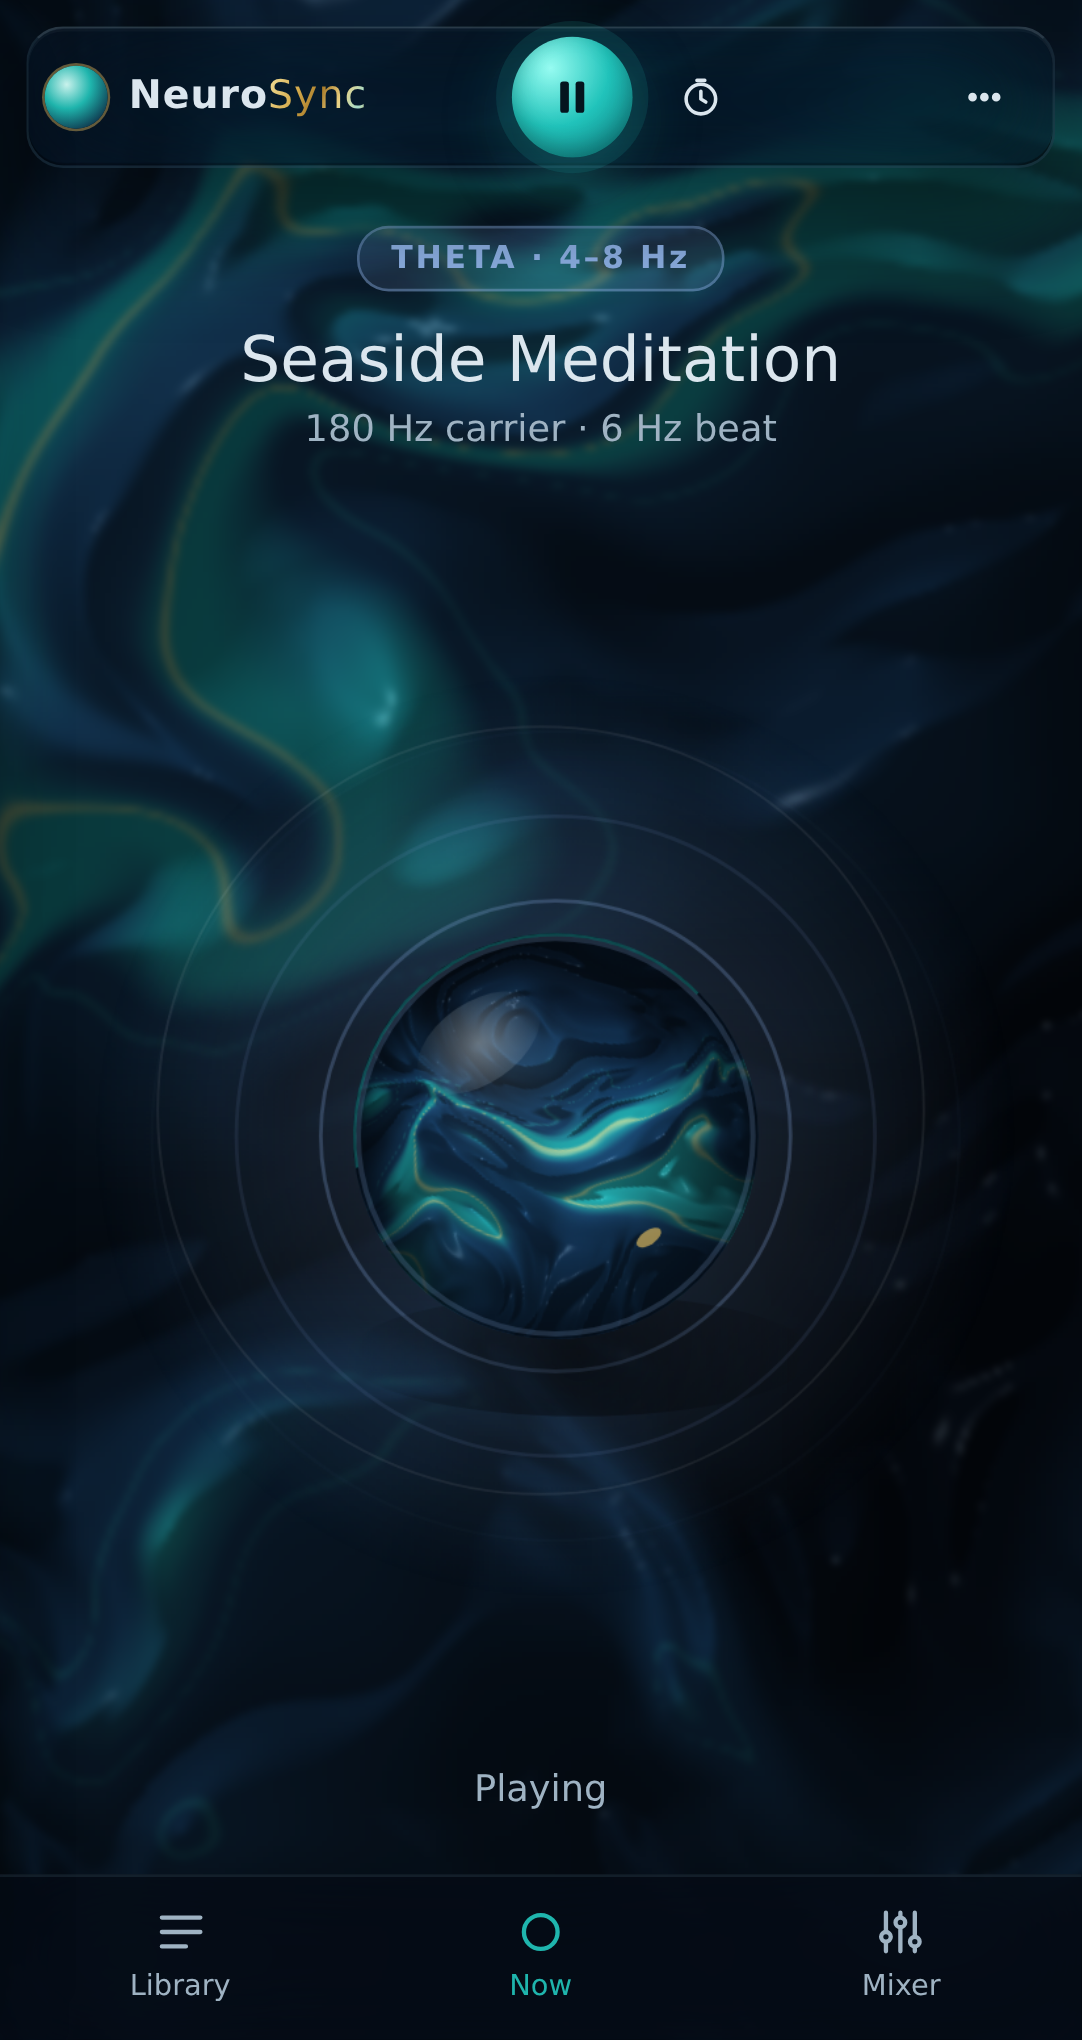
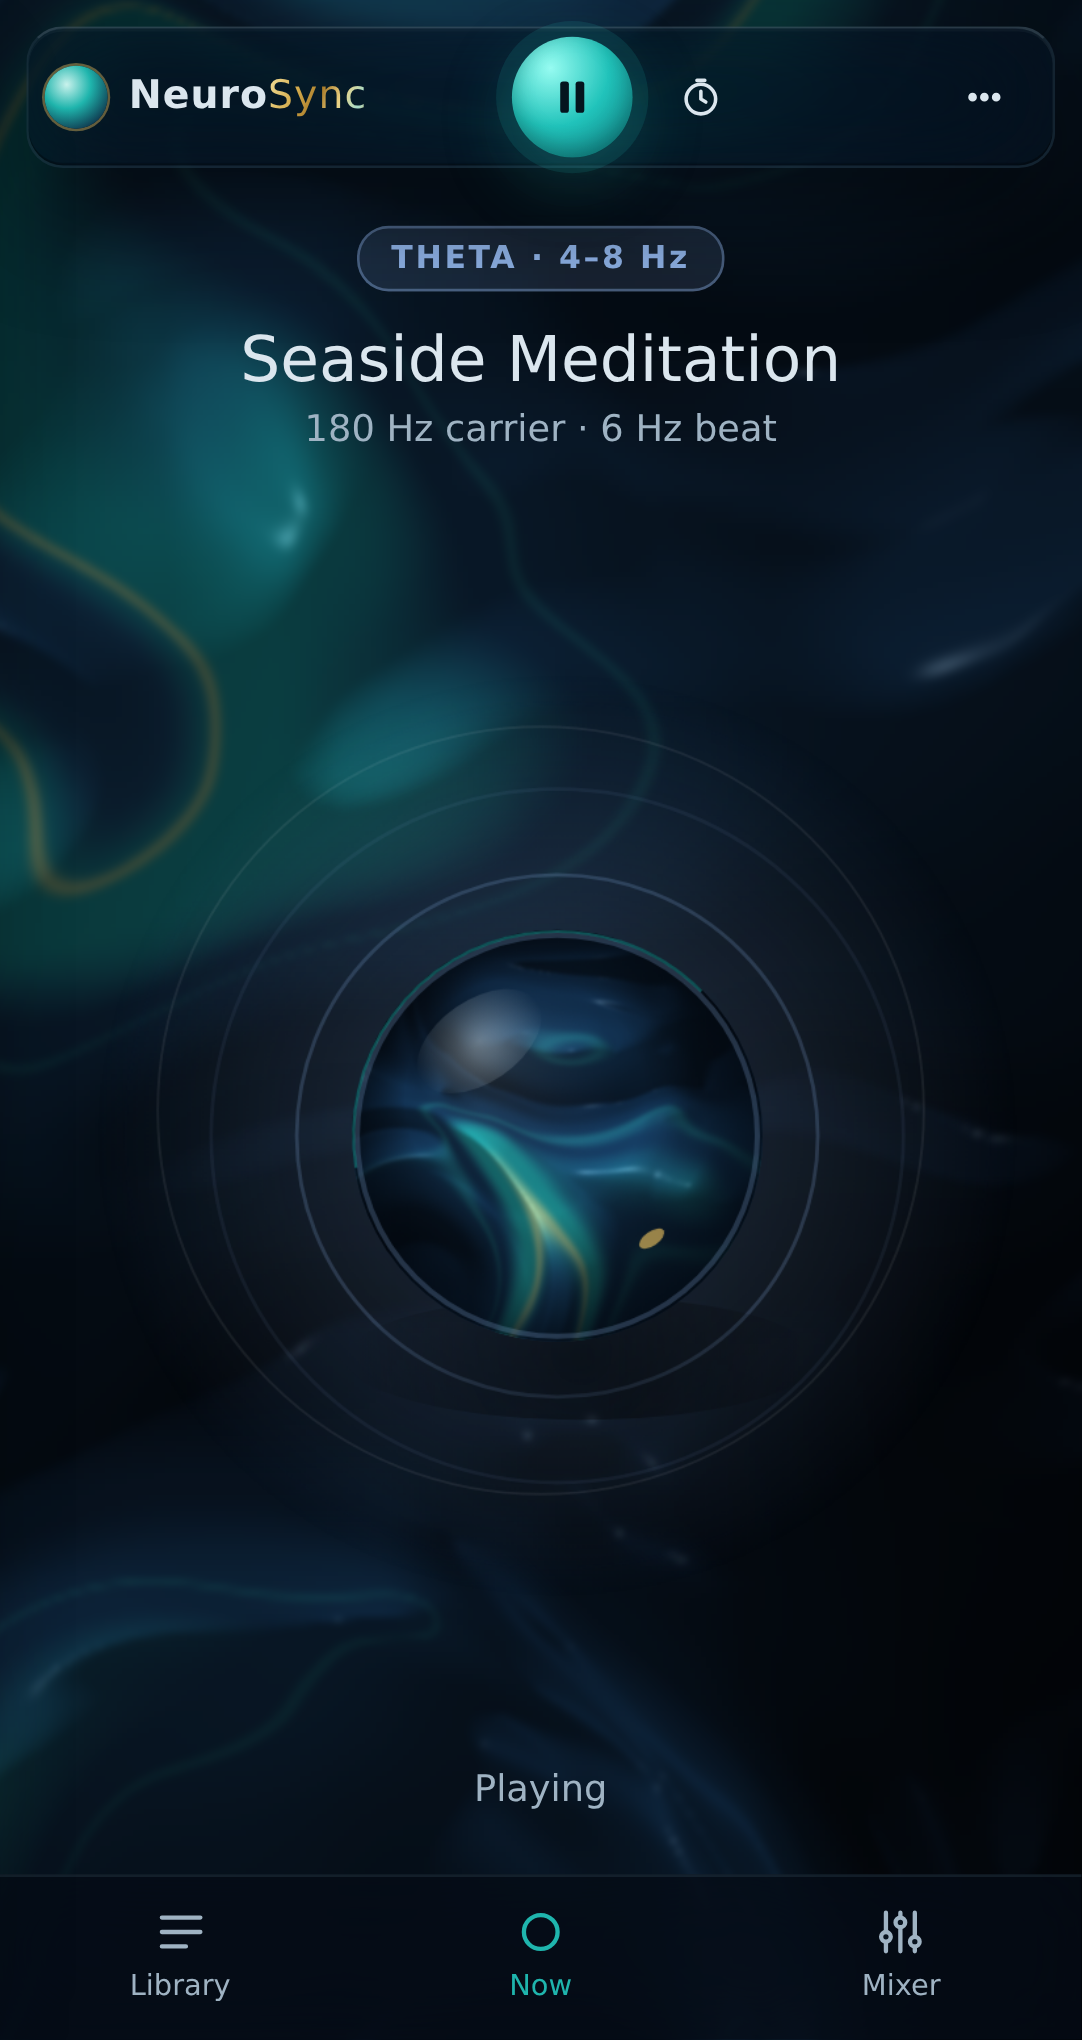
Liquid design: background zoom 256% (another 60%) for an even calmer painting
Claude-Session: https://claude.ai/code/session_01Y75uZTikZ6uwaoCSNCnxfq

diff --git a/web/src/ui/pour.ts b/web/src/ui/pour.ts
@@ -73,7 +73,7 @@ export interface PourOptions { seed?: number; scale?: number; brightness?: numbe
 export function renderPour(w: number, h: number, o: PourOptions = {}): ImageData {
   // Defaults chosen from side-by-side variants: calm, dark centre (orb + text sit on deep Prussian),
   // turquoise rivers and gold lacing toward the edges.
-  const { seed = 42, scale = 1.7, brightness = 0.78, octaves = 3, warp = 3.6, warp2 = 2.4, zoom = 1.6, soft = 1 } = o;
+  const { seed = 42, scale = 1.7, brightness = 0.78, octaves = 3, warp = 3.6, warp2 = 2.4, zoom = 2.56, soft = 1 } = o;   // background: 160% x 160%
   const field = makeNoise(seed, octaves, warp, warp2);
   const img = new ImageData(w, h);
   const hts = new Float32Array((w + 2) * (h + 2));
